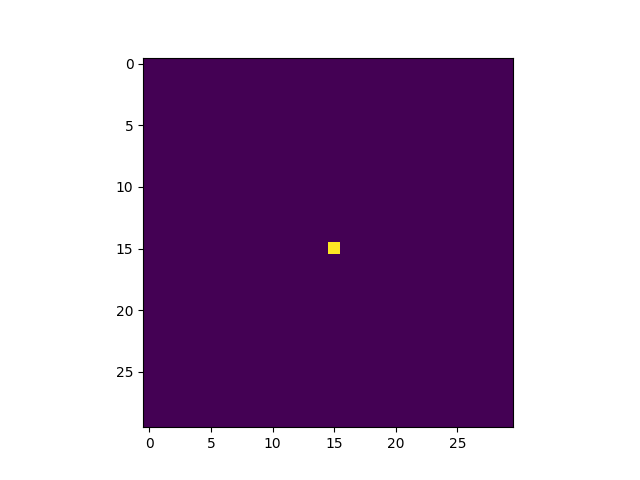
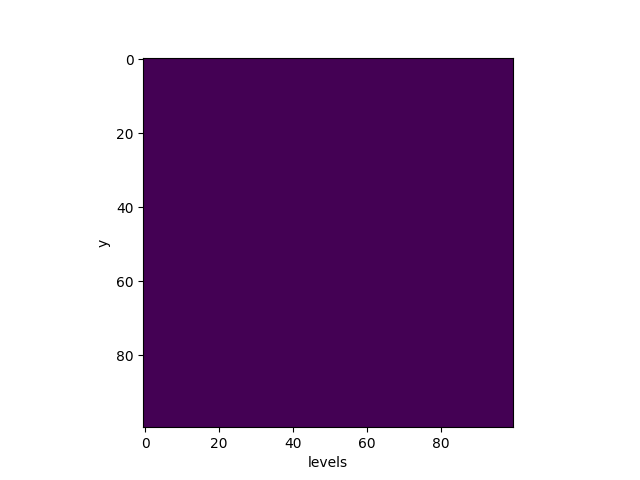
changements état initial

diff --git a/project/main.py b/project/main.py
@@ -28,7 +28,7 @@ class Master:
         self.num_neurons_per_hidden_layer = 25
         self.num_inputs = 125
         self.num_outputs = 27
-        self.map_elites = MapElites({"size":self.num_inputs + self.num_outputs + self.num_hidden_layers*self.num_neurons_per_hidden_layer}, 30, 30, 0.1)
+        self.map_elites = MapElites({"size":self.num_inputs + self.num_outputs + self.num_hidden_layers*self.num_neurons_per_hidden_layer}, 100, 100, 0.1)
         self.map_elites.load_from_file("mapElites.pkl")
         
 
@@ -180,14 +180,14 @@ class Master:
             
             # TODO : Calculer les coordonnées dans la map en fonction de received_data
             # ! Attention à bien scale les coordonnées. Par exemple si le max théorique pour une dimension est 100 et que la map a pas 100 cases, il faut normaliser les coordonnées entre 0 et 1 puis les multiplier par le nombre de cases de la map
-
-            x_coord = 15 # à changer
-            y_coord = 15 # à changer
-            self.map_elites.register_results(data, x_coord, y_coord, nb_of_moves)
-
-
             #Point de comparaison
             level,number_robot_level = self.number_robot(received_data) #nombre par niveau
+            x_coord = max(level,100)-1
+            y_coord = max(number_robot_level,100)-1
+            self.map_elites.register_results(data, x_coord, y_coord, nb_of_moves)
+            print("Pushing neural network to mapElites at coordinates", x_coord, y_coord, "with nb of moves", nb_of_moves)
+
+
             
             print("NB moves ", nb_of_moves)
             print("Positions \n", received_data)

diff --git a/project/learning/mapElites.py b/project/learning/mapElites.py
@@ -56,6 +56,9 @@ class MapElites:
                 if self.archive.archive[i][j] is not None:
                     _, energy = self.archive.archive[i][j]
                     energy_map[i][j] = energy
+        #add labels
+        plt.xlabel('levels')
+        plt.ylabel('y')
         plt.imshow(energy_map)
         plt.savefig('heatmap.png')
 
